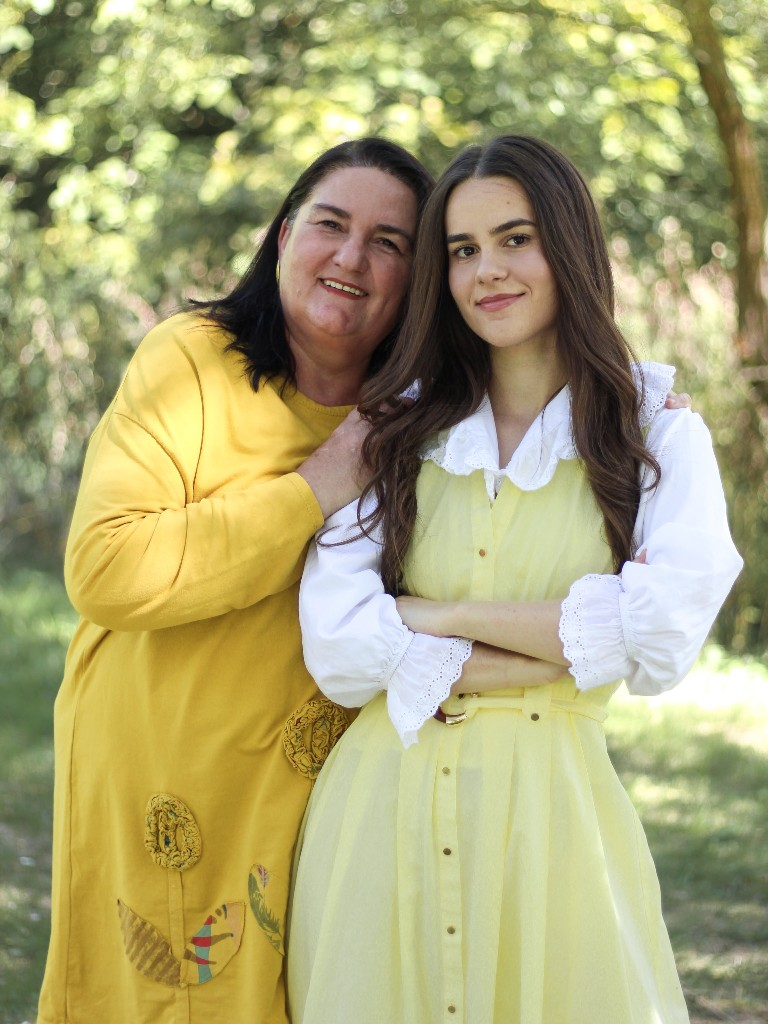
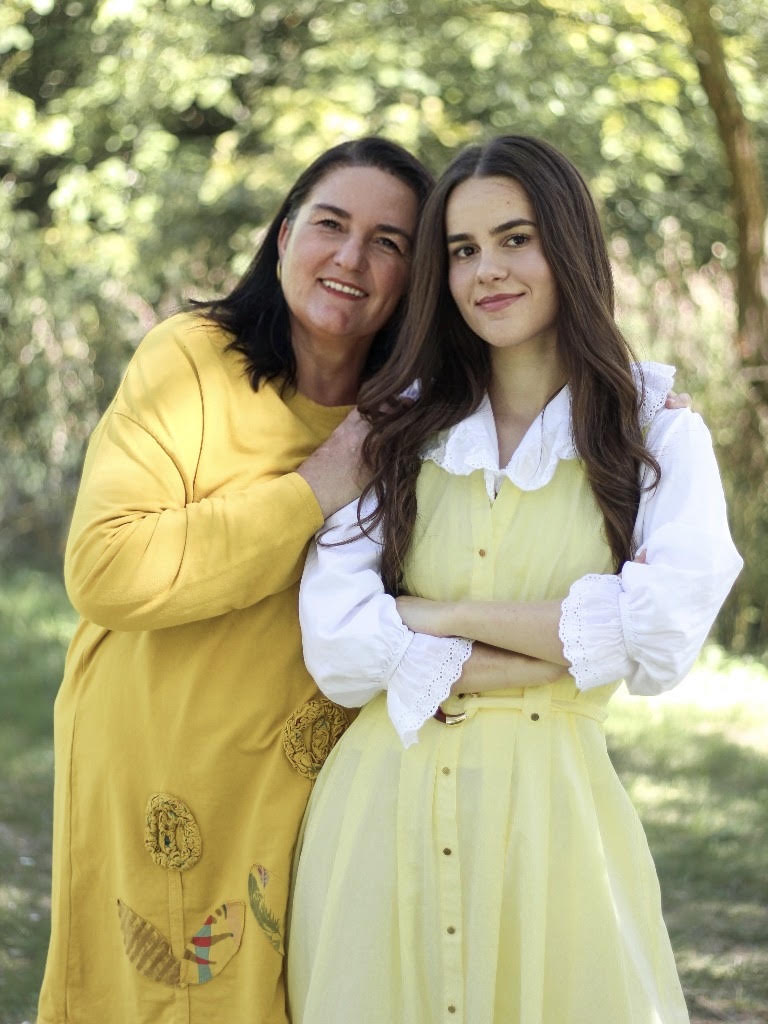
Use the new Gurman portrait on the about section.

diff --git a/js/main.js b/js/main.js
@@ -36,7 +36,7 @@ const translations = {
     "about.check3": "Sastav i cijenu dogovaramo prije kuhanja",
     "about.check4": "Jedna poruka na WhatsApp je dovoljna za početak",
     "about.cta": "Zatraži ponudu",
-    "about.alt": "Gurman catering Mostar, kuhinja u Hercegovini",
+    "about.alt": "Tim Gurmana, Mostar",
     "about.quote":
       "Kuhinja je naše sretno mjesto, a tu sreću dijelimo s vama kroz svaki zalogaj. Od bogatih plata do mirisnih domaćih peciva, tu smo da vaše proslave učinimo posebnim.",
     "services.kicker": "Usluge",
@@ -184,7 +184,7 @@ const translations = {
     "about.check3": "The menu and price are agreed before we cook",
     "about.check4": "One WhatsApp message is enough to start",
     "about.cta": "Request a quote",
-    "about.alt": "Gurman catering Mostar, a kitchen in Herzegovina",
+    "about.alt": "The Gurman team, Mostar",
     "about.quote":
       "The kitchen is our happy place, and we share that happiness with you in every bite. From generous platters to fragrant homemade pastries, we are here to make your celebrations special.",
     "services.kicker": "Services",

diff --git a/index.html b/index.html
@@ -251,7 +251,7 @@
 
       <section class="section about" id="o-nama">
         <div class="about-photo">
-          <img src="images/about.jpg" alt="Gurman catering Mostar, kuhinja u Hercegovini" data-i18n-alt="about.alt" />
+          <img src="images/about.jpg" alt="Tim Gurmana, Mostar" data-i18n-alt="about.alt" />
         </div>
         <div>
           <p class="eyebrow" data-i18n="about.kicker">O nama</p>

diff --git a/css/styles.css b/css/styles.css
@@ -262,7 +262,7 @@ h1 { font-size: clamp(2.6rem, 5vw, 4.4rem); font-weight: 800; max-width: 11ch; }
   height: 460px;
   width: 100%;
   object-fit: cover;
-  object-position: center 18%;
+  object-position: center 12%;
   border-radius: 36px 120px 36px 36px;
 }
 .about h2, .section-head h2, .contact h2 { font-size: clamp(2rem, 4vw, 3rem); font-weight: 800; }
